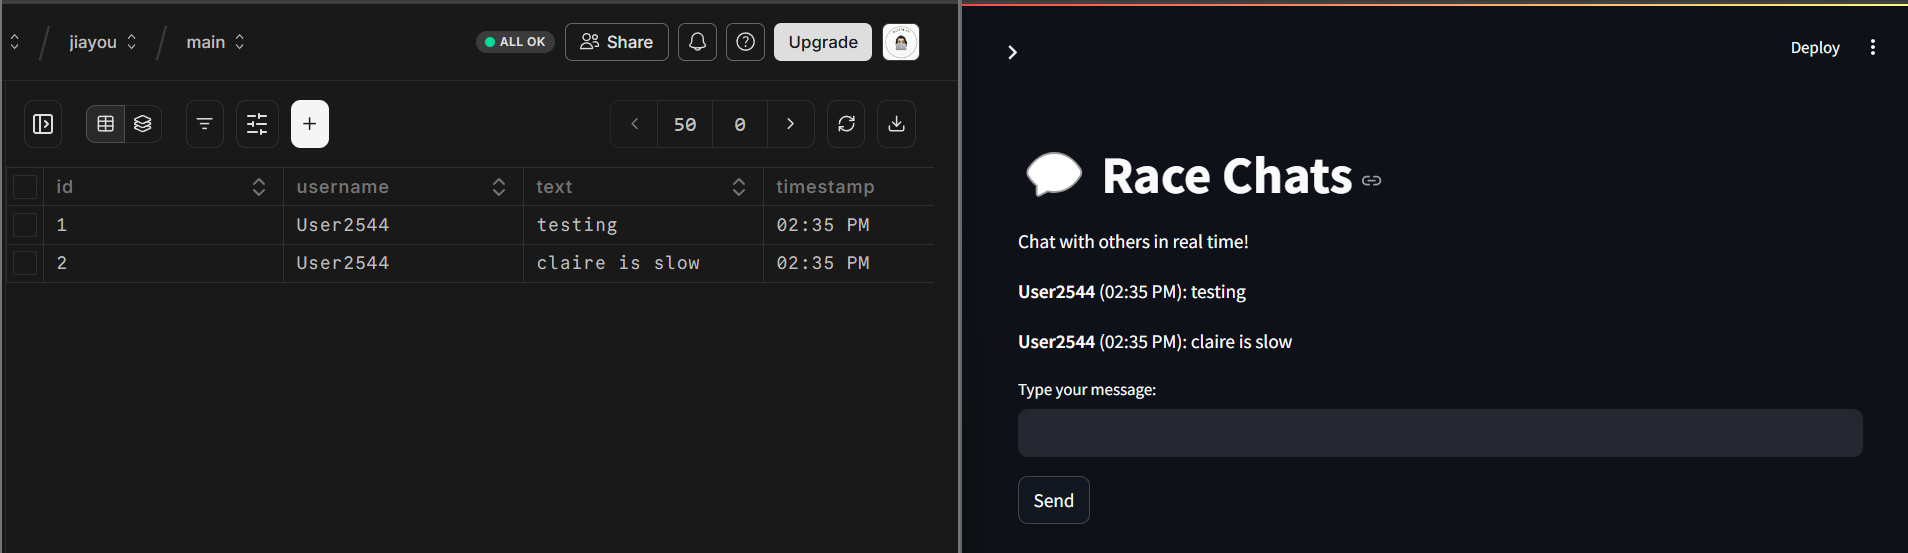
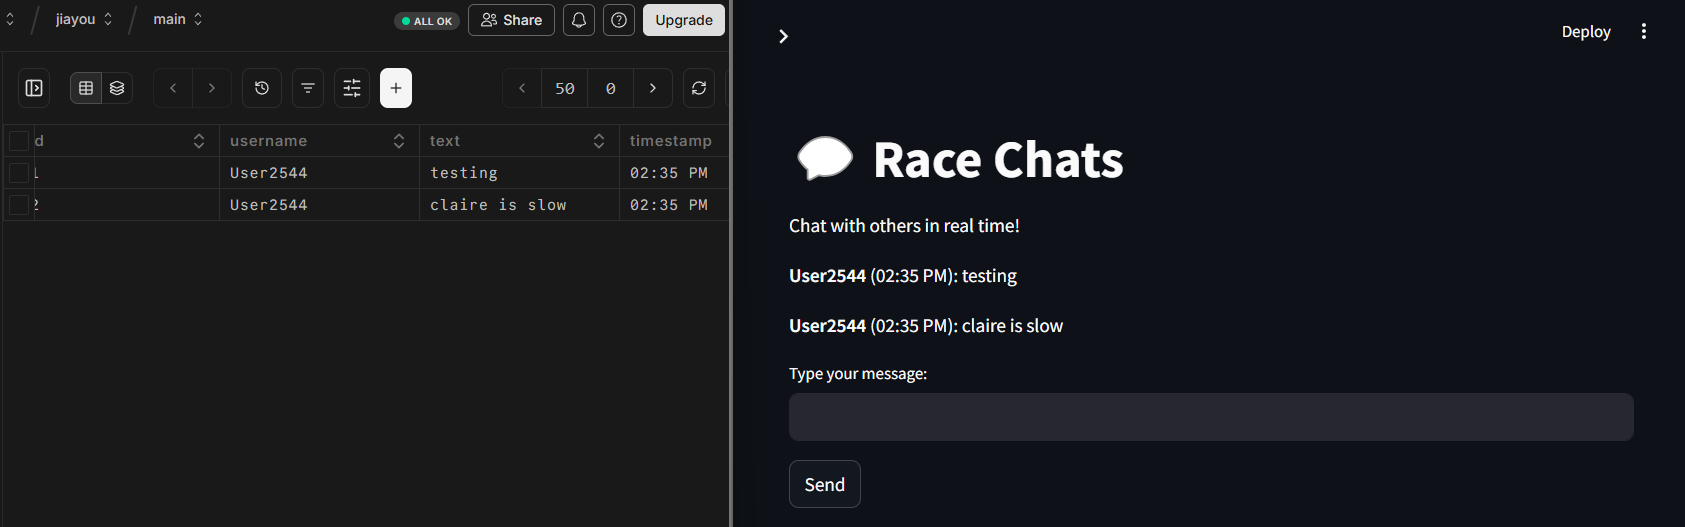
let's get others to test

diff --git a/cheerleader.py b/cheerleader.py
@@ -28,10 +28,23 @@ def load_messages():
     return cursor.fetchall()
 
 # Sidebar
-st.sidebar.title("Erlanger Chattanooga Marathon")
-
 st.title("💬 Race Chats")
 st.write("Chat with others in real time!")
+
+# Sidebar content
+st.sidebar.title("Erlanger Chattanooga Marathon")
+st.sidebar.markdown("""## Logistics
+- **Date:** March 5, 2022
+- **Location:** Chattanooga, TN
+- **Start Time:** 7:30 AM
+- **Start Location:** First Horizon Pavilion, [1826 Reggie White Blvd, Chattanooga, TN 37408](https://maps.app.goo.gl/irLBHxsJaJ2bh9Dp8)
+- **Distance:** 13.1 miles
+## Quick Links
+- The main [page](https://www.chattanoogamarathon.com/)
+- The [schedule](https://www.chattanoogamarathon.com/race/schedule)
+- The parking/traffic [info](https://www.chattanoogamarathon.com/race/traffic)
+- The half marathon [course map](https://www.chattanoogamarathon.com/assets/pdf/2024-ChattMarathon-Maps.pdf)
+""")
 
 # Load messages
 messages = load_messages()
